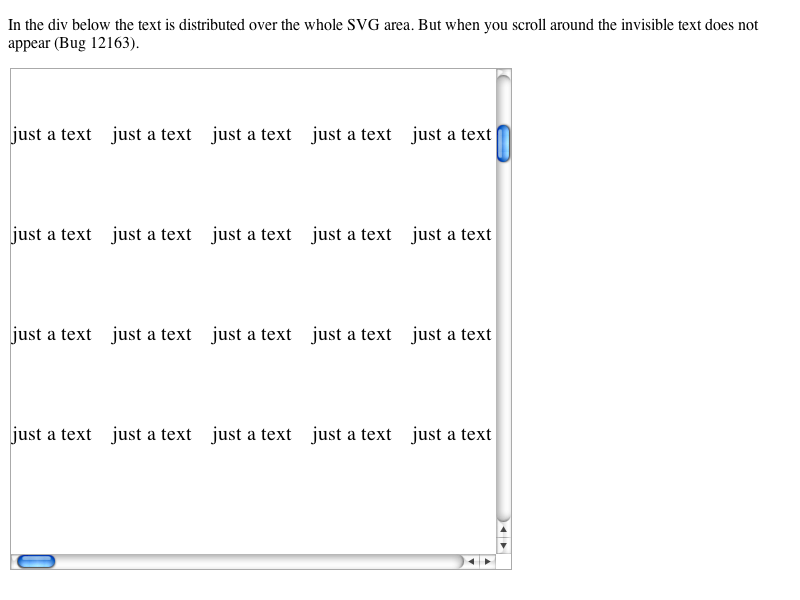
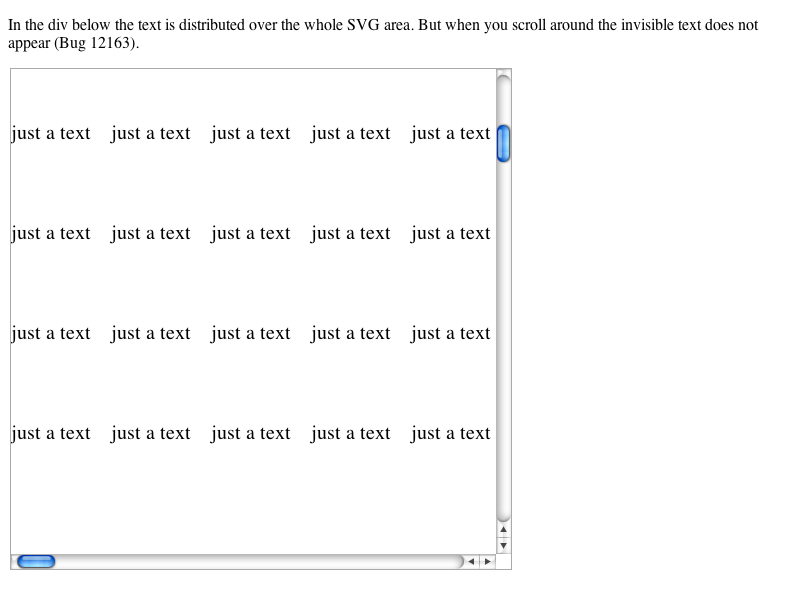
Reviewed by Oliver.
http://bugs.webkit.org/show_bug.cgi?id=13052
        Text not rendered in a second inline SVG element

        Correct the rendering of svg text when embedded in non-svg container.

Identifier: 17661@main
git-svn-id: https://svn.webkit.org/repository/webkit/trunk@21144 268f45cc-cd09-0410-ab3c-d52691b4dbfc

diff --git a/WebCore/rendering/RenderSVGText.cpp b/WebCore/rendering/RenderSVGText.cpp
@@ -122,11 +122,11 @@ void RenderSVGText::absoluteRects(Vector<IntRect>& rects, int, int)
     rects.append(absoluteClippedOverflowRect());
 }
 
-void RenderSVGText::paint(PaintInfo& paintInfo, int tx, int ty)
+void RenderSVGText::paint(PaintInfo& paintInfo, int, int)
 {   
     RenderObject::PaintInfo pi(paintInfo);
     pi.rect = absoluteTransform().inverse().mapRect(pi.rect);
-    RenderBlock::paint(pi, tx, ty);
+    RenderBlock::paint(pi, 0, 0);
 }
 
 FloatRect RenderSVGText::relativeBBox(bool includeStroke) const
